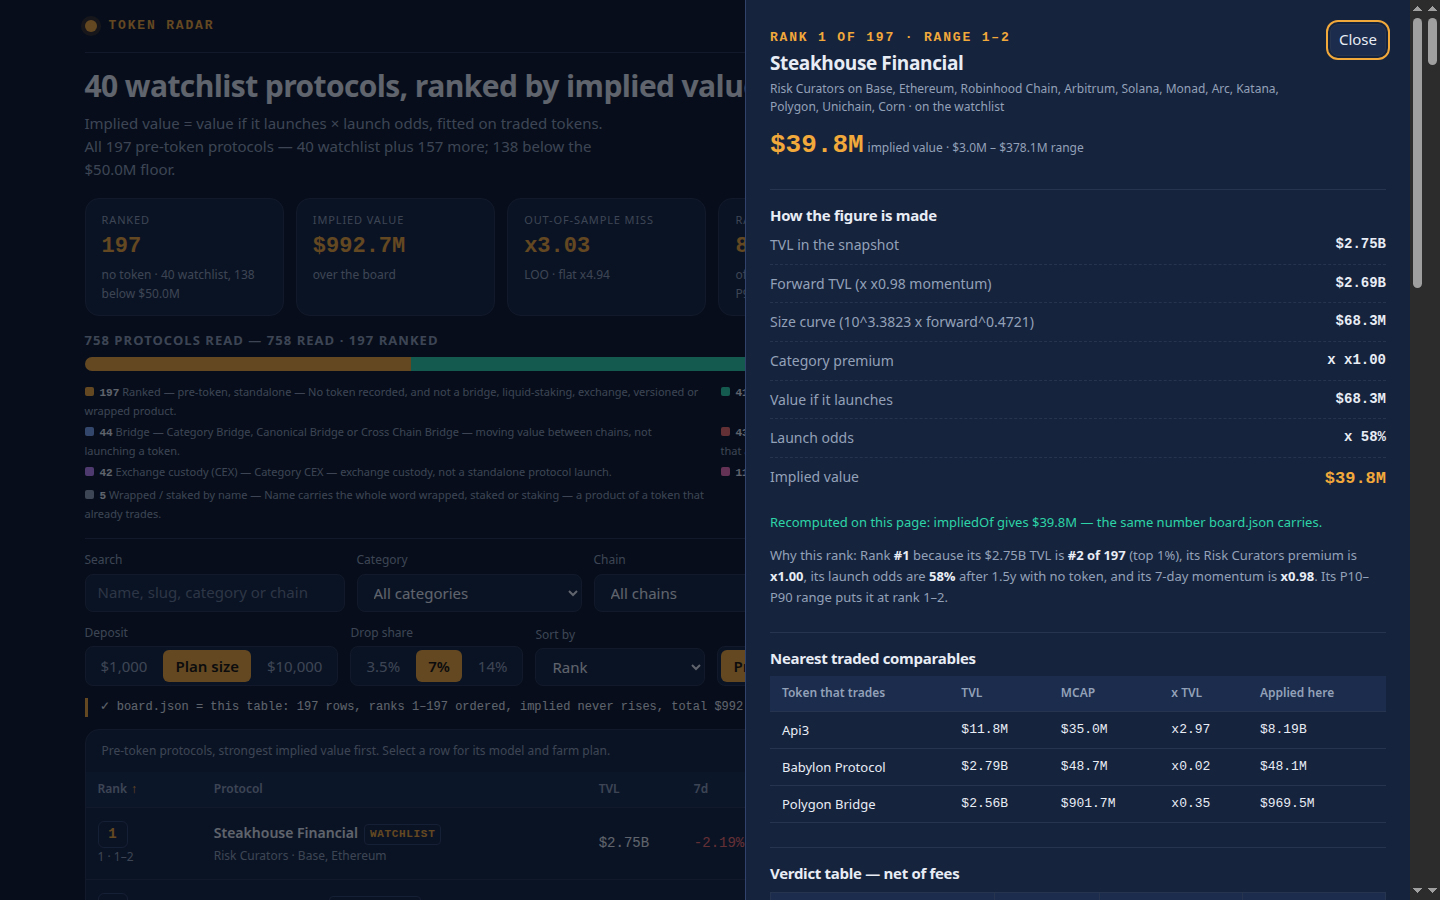
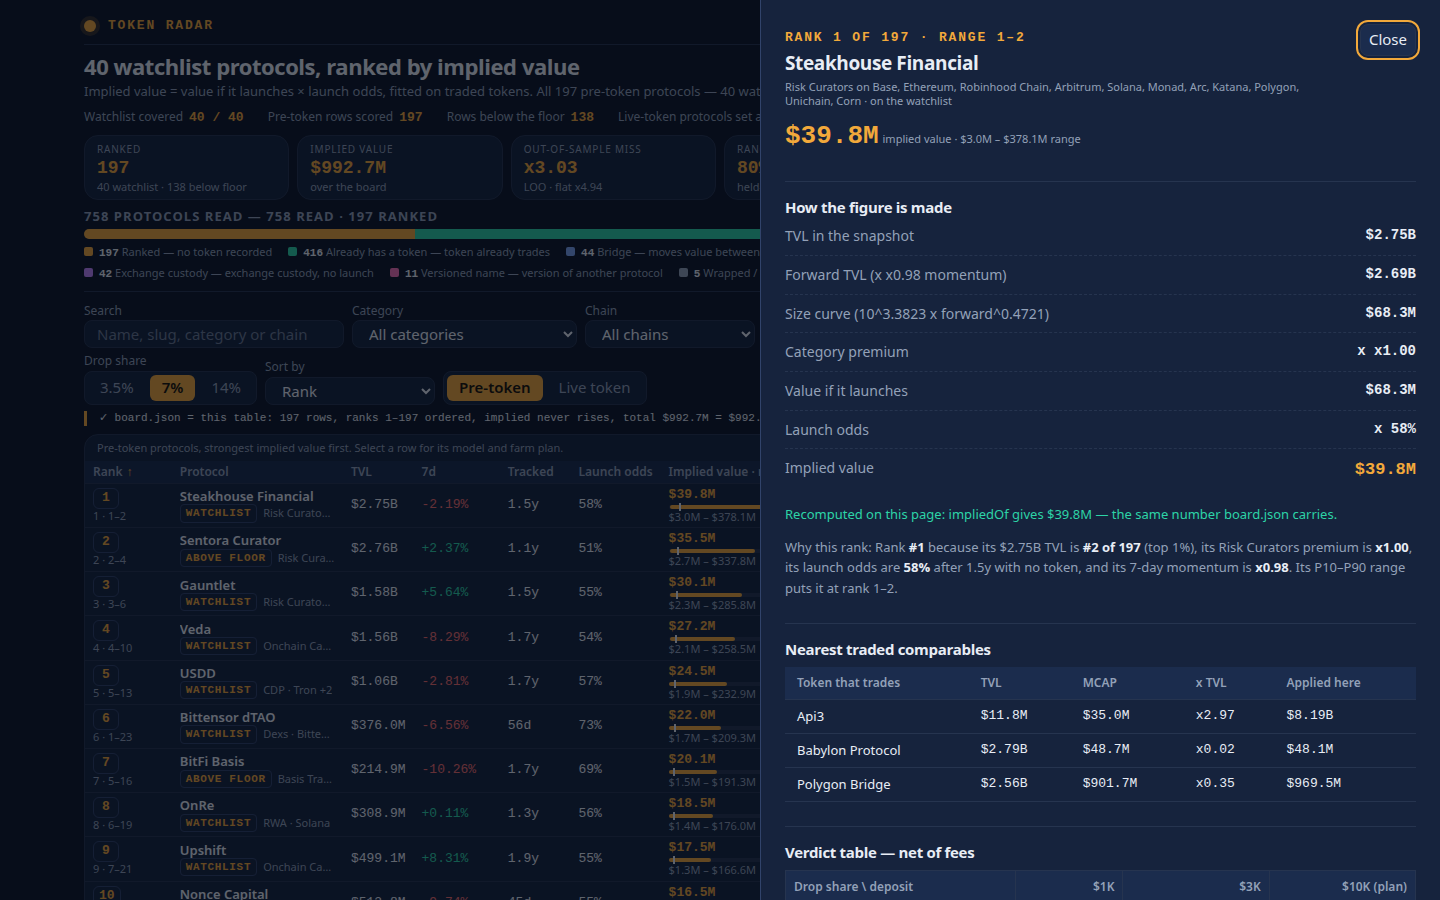
token-radar-01: comps-5 — compact layout, 9 rows in shot 1

diff --git a/dashboard/app.css b/dashboard/app.css
@@ -12,7 +12,7 @@
 html{color-scheme:dark}
 body{margin:0;background:var(--bg);color:var(--ink);font:400 15px/1.55 var(--font-body)}
 h1,h2,h3{margin:0;letter-spacing:-.02em}
-h1{font-size:30px;line-height:1.15;font-weight:650}
+h1{font-size:22px;line-height:1.2;font-weight:650}
 h2{font-size:19px;line-height:1.25;font-weight:650}
 h3{font-size:15px;line-height:1.3;font-weight:650}
 p{margin:0}
@@ -21,35 +21,35 @@ button{cursor:pointer}
 .skip{position:absolute;left:-9999px;top:0;padding:var(--s2) var(--s4);background:var(--amber);color:var(--amber-ink);z-index:30;border-radius:0 0 var(--r1) 0;font-weight:600}
 .skip:focus{left:var(--s4);top:var(--s4)}
 :focus-visible{outline:2px solid var(--amber);outline-offset:2px}
-.shell{max-width:1320px;margin:0 auto;padding:var(--s4) var(--s6) var(--s6)}
-.top{display:flex;align-items:flex-start;justify-content:space-between;gap:var(--s5);padding-bottom:var(--s4);border-bottom:1px solid var(--border)}
+.shell{max-width:1320px;margin:0 auto;padding:var(--s4) var(--s5) var(--s6)}
+.top{display:flex;align-items:flex-start;justify-content:space-between;gap:var(--s5);padding-bottom:var(--s2);border-bottom:1px solid var(--border)}
 .brand{display:flex;align-items:center;gap:var(--s3)}
 .mark{width:12px;height:12px;border-radius:50%;background:var(--amber);flex:none;box-shadow:0 0 0 4px rgba(242,169,59,.18)}
 .brand-name{font-family:var(--font-num);font-size:13px;letter-spacing:.14em;color:var(--amber);font-weight:600}
 .top-meta{display:flex;flex-wrap:wrap;gap:var(--s2) var(--s4);justify-content:flex-end;color:var(--muted);font-size:13px}
-.lede{display:grid;grid-template-columns:minmax(0,1.35fr) minmax(280px,.65fr);gap:var(--s6);padding:var(--s4) 0 var(--s3)}
-.lede-text{color:var(--muted);max-width:62ch;margin-top:var(--s2)}
-.facts{display:grid;gap:var(--s2);align-content:start;border-left:1px solid var(--border);padding-left:var(--s5)}
-.fact{display:flex;align-items:baseline;justify-content:space-between;gap:var(--s3)}
-.fact b{font-family:var(--font-num);font-size:15px;font-weight:600;color:var(--amber)}
-.fact span{color:var(--muted);font-size:13px}
-.controls{display:flex;flex-wrap:wrap;align-items:end;gap:var(--s3);padding:var(--s3) 0;border-top:1px solid var(--border)}
-.field{display:grid;gap:var(--s1)}
-.field label{color:var(--muted);font-size:12px}
-.field input,.field select{min-height:38px;padding:0 var(--s3);border:1px solid var(--border);border-radius:var(--r1);background:var(--surface);min-width:170px}
+.lede{display:block;padding:var(--s2) 0 6px}
+.lede-text{color:var(--muted);margin-top:2px;font-size:13px;line-height:1.45}
+.facts{display:flex;flex-wrap:wrap;gap:2px var(--s5);margin-top:var(--s2)}
+.fact{display:flex;align-items:baseline;gap:6px}
+.fact b{font-family:var(--font-num);font-size:13px;font-weight:600;color:var(--amber)}
+.fact span{color:var(--muted);font-size:12px}
+.controls{display:flex;flex-wrap:wrap;align-items:end;gap:6px var(--s2);padding:6px 0;border-top:1px solid var(--border)}
+.field{display:grid;gap:2px}
+.field label{color:var(--muted);font-size:12px;line-height:1.2}
+.field input,.field select{min-height:28px;padding:0 var(--s3);border:1px solid var(--border);border-radius:var(--r1);background:var(--surface);min-width:170px}
 .field input{min-width:260px}
 .field input::placeholder{color:var(--faint)}
-.toggle{display:flex;align-items:center;gap:var(--s2);min-height:38px;padding:0 var(--s3);border:1px solid var(--border);border-radius:var(--r1);background:var(--surface);color:var(--muted);font-size:13px;cursor:pointer}
+.toggle{display:flex;align-items:center;gap:var(--s2);min-height:28px;padding:0 var(--s3);border:1px solid var(--border);border-radius:var(--r1);background:var(--surface);color:var(--muted);font-size:13px;cursor:pointer}
 .toggle input{accent-color:var(--amber)}
 .tabs{display:flex;gap:var(--s1);padding:3px;border:1px solid var(--border);border-radius:var(--r1);background:var(--surface)}
-.tabs button{min-height:32px;padding:0 var(--s3);border:0;border-radius:6px;background:transparent;color:var(--muted)}
+.tabs button{min-height:26px;padding:0 var(--s3);border:0;border-radius:6px;background:transparent;color:var(--muted)}
 .tabs button[aria-pressed="true"]{background:var(--amber);color:var(--amber-ink);font-weight:600}
 .count{margin-left:auto;color:var(--muted);font-size:13px;align-self:center}
 .panel{background:var(--surface);border:1px solid var(--border);border-radius:var(--r2);overflow:hidden}
 .table-wrap{overflow-x:auto}
-table{width:100%;border-collapse:collapse;font-size:14px}
-caption{text-align:left;padding:var(--s3) var(--s4);caption-side:top}
-th,td{padding:8px var(--s3);border-bottom:1px solid var(--border);text-align:left;vertical-align:middle}
+table{width:100%;border-collapse:collapse;font-size:13px;line-height:1.3}
+caption{text-align:left;padding:6px var(--s3);caption-side:top}
+th,td{padding:3px 8px;border-bottom:1px solid var(--border);text-align:left;vertical-align:middle}
 thead th{position:sticky;top:0;background:var(--surface2);color:var(--muted);font-size:12px;font-weight:600;white-space:nowrap;z-index:2}
 th button{display:inline-flex;align-items:center;gap:var(--s1);border:0;background:none;padding:0;color:inherit;font:inherit}
 th button:hover{color:var(--ink)}
@@ -58,15 +58,19 @@ tbody tr{cursor:pointer}
 tbody tr:hover{background:var(--surface2)}
 tbody tr.static{cursor:default}
 .num{font-family:var(--font-num);font-variant-numeric:tabular-nums;white-space:nowrap}
-.name{display:grid;gap:2px}
-.name b{font-weight:600}
-.sub{color:var(--muted);font-size:12px}
+.name{display:grid;gap:0}
+.name .nm{display:block;overflow:hidden;text-overflow:ellipsis;white-space:nowrap;font-weight:600;line-height:1.25}
+.name .prow{display:flex;align-items:center;gap:6px;min-width:0}
+.name .subtxt{overflow:hidden;text-overflow:ellipsis;white-space:nowrap;min-width:0}
+.name .badge{margin-left:0}
+.sub{color:var(--muted);font-size:11px;line-height:1.3}
 .pos{color:var(--teal)}
 .neg{color:var(--red)}
-.rank-badge{display:inline-block;min-width:30px;text-align:center;font-family:var(--font-num);font-weight:600;color:var(--amber);border:1px solid var(--border2);border-radius:6px;padding:2px 6px}
-.implied{display:grid;gap:5px}
+.rank-badge{display:inline-block;min-width:26px;text-align:center;font-family:var(--font-num);font-weight:600;color:var(--amber);border:1px solid var(--border2);border-radius:6px;padding:1px 5px}
+td:first-child .sub{white-space:nowrap}
+.implied{display:grid;gap:1px}
 .implied .num{color:var(--amber);font-weight:600}
-.bar{width:130px;height:5px;border-radius:3px;background:var(--border);overflow:hidden}
+.bar{width:96px;height:4px;border-radius:3px;background:var(--border);overflow:hidden}
 .bar i{display:block;height:100%;background:var(--amber)}
 .chip{display:inline-flex;align-items:center;gap:6px;color:var(--muted);font-size:12px;white-space:nowrap}
 .chip::before{content:"";width:6px;height:6px;border-radius:50%;background:var(--teal)}
@@ -104,26 +108,36 @@ tbody tr.static{cursor:default}
   .facts{border-left:0;border-top:1px solid var(--border);padding-left:0;padding-top:var(--s4)}
   .field input{min-width:0;width:100%}
   .count{margin-left:0}
+  .board-grid{grid-template-columns:1fr}
 }
 @media (prefers-reduced-motion:reduce){
   *,*::before,*::after{transition-duration:.01ms!important;animation-duration:.01ms!important;animation-iteration-count:1!important}
 }
-.kpi{display:grid;grid-template-columns:repeat(6,1fr);gap:var(--s3);padding-bottom:var(--s4)}
-.kpi-tile{background:var(--surface);border:1px solid var(--border);border-radius:var(--r2);padding:var(--s3) var(--s4);display:grid;gap:2px;align-content:start}
-.kpi-tile span{color:var(--muted);font-size:11px;letter-spacing:.08em;text-transform:uppercase}
-.kpi-tile b{font-size:22px;font-family:var(--font-num);font-weight:600;color:var(--amber)}
-.kpi-tile small{color:var(--muted);font-size:12px}
-.acct{padding-bottom:var(--s4)}
-.acct h2{margin-bottom:var(--s2);color:var(--muted);font-size:13px;letter-spacing:.08em;text-transform:uppercase}
-.acct-bar{display:flex;height:14px;border-radius:7px;overflow:hidden;background:var(--surface)}
+.kpi{display:grid;grid-template-columns:repeat(6,1fr);gap:var(--s2);padding-bottom:var(--s2)}
+.kpi-tile{background:var(--surface);border:1px solid var(--border);border-radius:var(--r2);padding:6px var(--s3);display:grid;gap:1px;align-content:start}
+.kpi-tile span{color:var(--muted);font-size:10px;letter-spacing:.08em;text-transform:uppercase}
+.kpi-tile b{font-size:18px;line-height:1.15;font-family:var(--font-num);font-weight:600;color:var(--amber)}
+.kpi-tile small{color:var(--muted);font-size:11px;line-height:1.25}
+.acct{padding-bottom:var(--s2)}
+.acct h2{margin-bottom:4px;color:var(--muted);font-size:13px;letter-spacing:.08em;text-transform:uppercase}
+.acct-bar{display:flex;height:10px;border-radius:7px;overflow:hidden;background:var(--surface)}
 .acct-bar i{display:block;height:100%}
-.acct-legend{list-style:none;margin:var(--s3) 0 0;padding:0;display:grid;grid-template-columns:repeat(2,1fr);gap:var(--s1) var(--s4);font-size:11px;color:var(--muted)}
+.acct-legend{list-style:none;margin:4px 0 0;padding:0;display:flex;flex-wrap:wrap;gap:2px var(--s4);font-size:11px;color:var(--muted)}
 .acct-legend b{color:var(--ink);font-family:var(--font-num)}
 .acct-legend .dot{display:inline-block;width:9px;height:9px;border-radius:2px;margin-right:6px}
 .seg{display:flex;gap:var(--s1);padding:3px;border:1px solid var(--border);border-radius:var(--r1);background:var(--surface)}
-.seg button{min-height:32px;padding:0 var(--s3);border:0;border-radius:6px;background:transparent;color:var(--muted);white-space:nowrap}
+.seg button{min-height:26px;padding:0 var(--s3);border:0;border-radius:6px;background:transparent;color:var(--muted);white-space:nowrap}
 .seg button[aria-pressed="true"]{background:var(--amber);color:var(--amber-ink);font-weight:600}
 .panels{display:grid;grid-template-columns:1fr 1fr;gap:var(--s4);margin-top:var(--s4)}
+.board-grid{display:grid;grid-template-columns:minmax(0,2.05fr) minmax(280px,1fr);gap:var(--s3);align-items:start}
+.side{display:grid;gap:var(--s4);align-content:start}
+.side .pad{padding:var(--s3) var(--s4)}
+.side .pad h2{font-size:15px;margin-bottom:var(--s2)}
+.side .model{margin-top:0;padding:var(--s3) var(--s4)}
+.side .formula{font-size:12px}
+.side .vstat{margin:var(--s2) 0}
+.side .steps{gap:var(--s2)}
+.side .checklist{gap:4px}
 .pad{padding:var(--s5)}
 .pad h2{margin-bottom:var(--s3)}
 .pad .sub{font-size:13px;line-height:1.6}
@@ -132,23 +146,23 @@ tbody tr.static{cursor:default}
 .vstat div{background:var(--bg2);border:1px solid var(--border);border-radius:var(--r1);padding:var(--s2) var(--s3)}
 .vstat span{display:block;color:var(--muted);font-size:12px}
 .vstat b{font-family:var(--font-num);font-size:16px;color:var(--amber)}
-.checkstrip{font-family:var(--font-num);font-size:12px;border-left:3px solid var(--amber);padding-left:var(--s3);margin-bottom:var(--s3)}
+.checkstrip{font-family:var(--font-num);font-size:11px;line-height:1.4;border-left:3px solid var(--amber);padding-left:var(--s3);margin-bottom:var(--s2)}
 .checklist{margin:0;padding-left:var(--s5);display:grid;gap:var(--s2);font-size:13px;color:var(--muted)}
 .checklist b{color:var(--ink)}
 .caveat{margin-top:var(--s3);font-size:13px;line-height:1.6;color:var(--muted);border-left:3px solid var(--amber);padding-left:var(--s3)}
 .mini{width:100%;font-size:13px}
 .mini th,.mini td{padding:var(--s2) var(--s3)}
 .mini thead th{position:static}
-.badge{display:inline-block;font-size:11px;font-weight:600;letter-spacing:.06em;font-family:var(--font-num);color:var(--amber);border:1px solid var(--border2);border-radius:4px;padding:1px 5px;margin-left:6px;vertical-align:1px}
+.badge{display:inline-block;font-size:11px;font-weight:600;letter-spacing:.06em;font-family:var(--font-num);color:var(--amber);border:1px solid var(--border2);border-radius:4px;padding:1px 5px;margin-left:6px;vertical-align:1px;white-space:nowrap;flex:none}
 .badge.off{color:var(--muted)}
 .vfarm{color:var(--teal);font-weight:600}
 .vmarg{color:var(--amber);font-weight:600}
 .vskip{color:var(--red);font-weight:600}
-.netcell{display:grid;gap:1px}
+.netcell{display:grid;gap:0}
 .netcell .num{font-weight:600}
-.rangebar{width:130px;height:5px;border-radius:3px;background:var(--border);position:relative;overflow:visible}
+.rangebar{width:96px;height:4px;border-radius:3px;background:var(--border);position:relative;overflow:visible}
 .rangebar i{position:absolute;top:0;bottom:0;background:var(--amber);border-radius:3px}
-.rangebar b{position:absolute;top:-3px;width:2px;height:11px;background:var(--ink)}
+.rangebar b{position:absolute;top:-2px;width:2px;height:8px;background:var(--ink)}
 .detail{width:min(680px,96vw)}
 .vt{width:100%;font-size:13px;border-collapse:collapse}
 .vt th,.vt td{padding:var(--s2);border:1px solid var(--border);text-align:right}

diff --git a/dashboard/app.js b/dashboard/app.js
@@ -183,16 +183,18 @@
     var total = k.total_implied_usd !== undefined ? k.total_implied_usd : rowsAll.reduce(function (s, r) { return s + (r.implied_value_usd || 0); }, 0);
     var worth = k.worth_farming !== undefined ? k.worth_farming : rowsAll.filter(function (r) { return verdictSel(r) === 'FARM'; }).length;
     var tiles = [
-      ['Ranked', String(k.ranked !== undefined ? k.ranked : DATA.board_size), 'no token · ' + (DATA.watchlist_size || 0) + ' watchlist, ' + rowsAll.filter(function (r) { return r.tvl_usd < DATA.floor_usd; }).length + ' below ' + fmtUsd(DATA.floor_usd)],
+      ['Ranked', String(k.ranked !== undefined ? k.ranked : DATA.board_size), (DATA.watchlist_size || 0) + ' watchlist · ' + rowsAll.filter(function (r) { return r.tvl_usd < DATA.floor_usd; }).length + ' below floor'],
       ['Implied value', fmtUsd(total), 'over the board'],
       ['Out-of-sample miss', (k.loo_miss !== undefined ? k.loo_miss : k.loo_median_miss) !== undefined ? 'x' + (k.loo_miss !== undefined ? k.loo_miss : k.loo_median_miss).toFixed(2) : 'n/a', 'LOO · flat x' + (DATA.validation && DATA.validation.flat_baseline ? DATA.validation.flat_baseline.median_miss.toFixed(2) : 'n/a')],
-      ['Range holds', k.range_holds_pct !== undefined ? Math.round(k.range_holds_pct) + '%' : 'n/a', 'of held-out caps inside P10–P90'],
+      ['Range holds', k.range_holds_pct !== undefined ? Math.round(k.range_holds_pct) + '%' : 'n/a', 'held-out caps in P10–P90'],
       ['Launch odds, held out', k.launch_odds_accuracy_pct !== undefined ? Math.round(k.launch_odds_accuracy_pct) + '%' : 'n/a', 'held out · base rate ' + (DATA.validation && DATA.validation.launch_odds ? Math.round(DATA.validation.launch_odds.base_rate_pct) + '%' : 'n/a')],
-      ['Worth farming', String(worth), 'Farm verdict at plan, 7%, after fees']
+      ['Worth farming', String(worth), 'Farm at plan, 7%, after fees']
     ];
     $('kpi').innerHTML = tiles.map(function (t) { return '<div class="kpi-tile"><span>' + t[0] + '</span><b>' + esc(t[1]) + '</b><small>' + esc(t[2]) + '</small></div>'; }).join('');
   }
   var ACCT_COLORS = ['#f2a93b', '#2dd4a7', '#7aa2f0', '#f26d6d', '#c084fc', '#f472b6', '#94a3b8', '#eab308', '#38bdf8', '#a3e635'];
+  var ACCT_LABEL = { 'Ranked — pre-token, standalone': 'Ranked', 'Liquid staking / restaking': 'Liquid staking', 'Exchange custody (CEX)': 'Exchange custody', 'Wrapped / staked by name': 'Wrapped / staked' };
+  var ACCT_SHORT = { 'Ranked — pre-token, standalone': 'no token recorded', 'Already has a token': 'token already trades', 'Bridge': 'moves value between chains', 'Liquid staking / restaking': 'receipt for a traded token', 'Exchange custody (CEX)': 'exchange custody, no launch', 'Versioned name': 'version of another protocol', 'Wrapped / staked by name': 'product of a traded token' };
   function renderAccounting() {
     var acc = DATA.accounting;
     var sec = document.querySelector('.acct');
@@ -200,7 +202,7 @@
     var total = acc.reduce(function (s, a) { return s + a.count; }, 0);
     $('acctLine').textContent = total + ' read · ' + acc[0].count + ' ranked';
     $('acctBar').innerHTML = acc.map(function (a, i) { return '<i style="width:' + (a.count / total * 100).toFixed(2) + '%;background:' + ACCT_COLORS[i % ACCT_COLORS.length] + '" title="' + esc(a.label) + ' ' + a.count + '"></i>'; }).join('');
-    $('acctLegend').innerHTML = acc.map(function (a, i) { return '<li><span class="dot" style="background:' + ACCT_COLORS[i % ACCT_COLORS.length] + '"></span><b>' + a.count + '</b> ' + esc(a.label) + ' — ' + esc(a.reason) + '</li>'; }).join('');
+    $('acctLegend').innerHTML = acc.map(function (a, i) { return '<li><span class="dot" style="background:' + ACCT_COLORS[i % ACCT_COLORS.length] + '"></span><b>' + a.count + '</b> ' + esc(ACCT_LABEL[a.label] || a.label) + ' — ' + esc(ACCT_SHORT[a.label] || a.reason) + '</li>'; }).join('');
   }
 
   function th(key, label) {
@@ -238,9 +240,11 @@
         var v = verdictSel(r), n = netSel(r);
         var range = (r.rank_low !== undefined) ? r.rank + ' · ' + r.rank_low + '–' + r.rank_high : String(r.rank);
         var odds = fmtPct100(chainOf(r).odds);
+        var ch0 = (r.chains || [])[0] || '', chN = (r.chains || []).length - 1;
+        var sub2 = (r.category || 'Other') + (ch0 ? ' · ' + ch0 : '') + (chN > 0 ? ' +' + chN : '');
         return '<tr data-slug="' + esc(r.slug) + '" data-selected="' + (state.selected === r.slug) + '" tabindex="0">' +
           '<td><span class="rank-badge">' + r.rank + '</span><div class="sub">' + esc(range) + '</div></td>' +
-          '<td><div class="name"><b>' + esc(r.name) + (isWatch(r) ? '<span class="badge">WATCHLIST</span>' : (isAboveFloor(r) ? '<span class="badge">ABOVE FLOOR</span>' : '<span class="badge off">BELOW FLOOR</span>')) + '</b><span class="sub">' + esc(r.category || 'Other') + ' · ' + esc(chainsOf(r).split(', ').slice(0, 2).join(', ')) + '</span></div></td>' +
+          '<td><div class="name"><b class="nm" title="' + esc(r.name) + '">' + esc(r.name) + '</b><span class="sub prow">' + (isWatch(r) ? '<span class="badge">WATCHLIST</span>' : (isAboveFloor(r) ? '<span class="badge">ABOVE FLOOR</span>' : '<span class="badge off">BELOW FLOOR</span>')) + '<span class="subtxt">' + esc(sub2) + '</span></span></div></td>' +
           '<td class="num">' + esc(fmtUsd(r.tvl_usd)) + '</td>' +
           '<td class="num ' + g + '">' + esc(fmtPct(r.change_7d)) + '</td>' +
           '<td class="num">' + esc(fmtAge(r.age_days)) + '</td>' +

diff --git a/dashboard/index.html b/dashboard/index.html
@@ -48,6 +48,8 @@
 <span class="count" id="count" aria-live="polite"></span>
 </div>
 <p class="checkstrip" id="checkStrip"></p>
+<div class="board-grid">
+<div class="board-col">
 <div class="panel">
 <div class="table-wrap">
 <table>
@@ -62,7 +64,8 @@
 </div>
 </div>
 </div>
-<div class="panels">
+</div>
+<aside class="side">
 <section class="panel pad" aria-label="Out-of-sample validation">
 <h2>Does it hold on tokens it never saw?</h2>
 <div id="valid"></div>
@@ -71,12 +74,10 @@
 <h2>How a row is priced</h2>
 <ol class="steps" id="pricing"></ol>
 </section>
-</div>
 <section class="panel pad">
 <h2>How to check this board — a note for the judge</h2>
 <ol class="checklist" id="checklist"></ol>
 </section>
-<div class="panels">
 <section class="panel pad" aria-label="Categories with the most rows">
 <h2>Categories with the most rows</h2>
 <div id="cats"></div>
@@ -86,14 +87,15 @@
 <p class="sub">Traded tokens (market cap) against pre-token rows (implied value), log scales. Dashed line: the fitted size curve.</p>
 <div id="scatter"></div>
 </section>
-</div>
-<section class="panel model" aria-label="How implied value is computed">
+<section class="panel pad model" aria-label="How implied value is computed">
 <h2>How implied value is computed</h2>
 <p class="sub">One function scores every row from the snapshot figures. No protocol name is special-cased and no row is hand-picked.</p>
 <p class="formula" id="formula"></p>
 <p class="sub" id="peerNote"></p>
 <p class="sub" id="liveNote"></p>
 </section>
+</aside>
+</div>
 <p class="foot">Implied value is a model estimate, not a price and not a promise of a token. A protocol listed here records no token in the snapshot; that is the record, not proof it has none.</p>
 </div>
 </main>

diff --git a/README.md b/README.md
@@ -6,9 +6,9 @@
 
 A token launch radar: it reads a sealed DefiLlama snapshot of 758 protocols and writes a web dashboard that ranks the 197 pre-token, standalone protocols by what their launch would be worth, each with a costed farm plan and a FARM / MARGINAL / SKIP verdict.
 
-## The model ("comps-4" — comps-3 model, deeper farm plans + methodology)
+## The model ("comps-5" — comps-4 model, compact two-column layout)
 
-comps-4 keeps the comps-3 model unchanged (no fitted alternative beat it clearly — see MODEL_NOTES.md) and spends the improvement on what the judge scores by margin: farm plans with a "why it counts" and a failure branch on every step, a break-even drop share per row, a 3×3 verdict table with three distinct deposits, and a judge-facing "How to check this board" checklist plus a live self-check strip (`board.json = this table`).
+comps-5 keeps the comps-4 model unchanged (no fitted alternative beat it clearly — see MODEL_NOTES.md) and spends the improvement on board density: rank #1 shows ~10 table rows in its 1440×900 board shot vs our ~1.5 in comps-4, so the header/KPI/accounting/controls are compressed, the table sits left with the validation/pricing/methodology panels in a right sidebar, and rows are ~44px — shot 1 now shows 9 full rows + 1 partial.
 
 Implied value follows from the snapshot's own figures — no hardcoded names:
 
